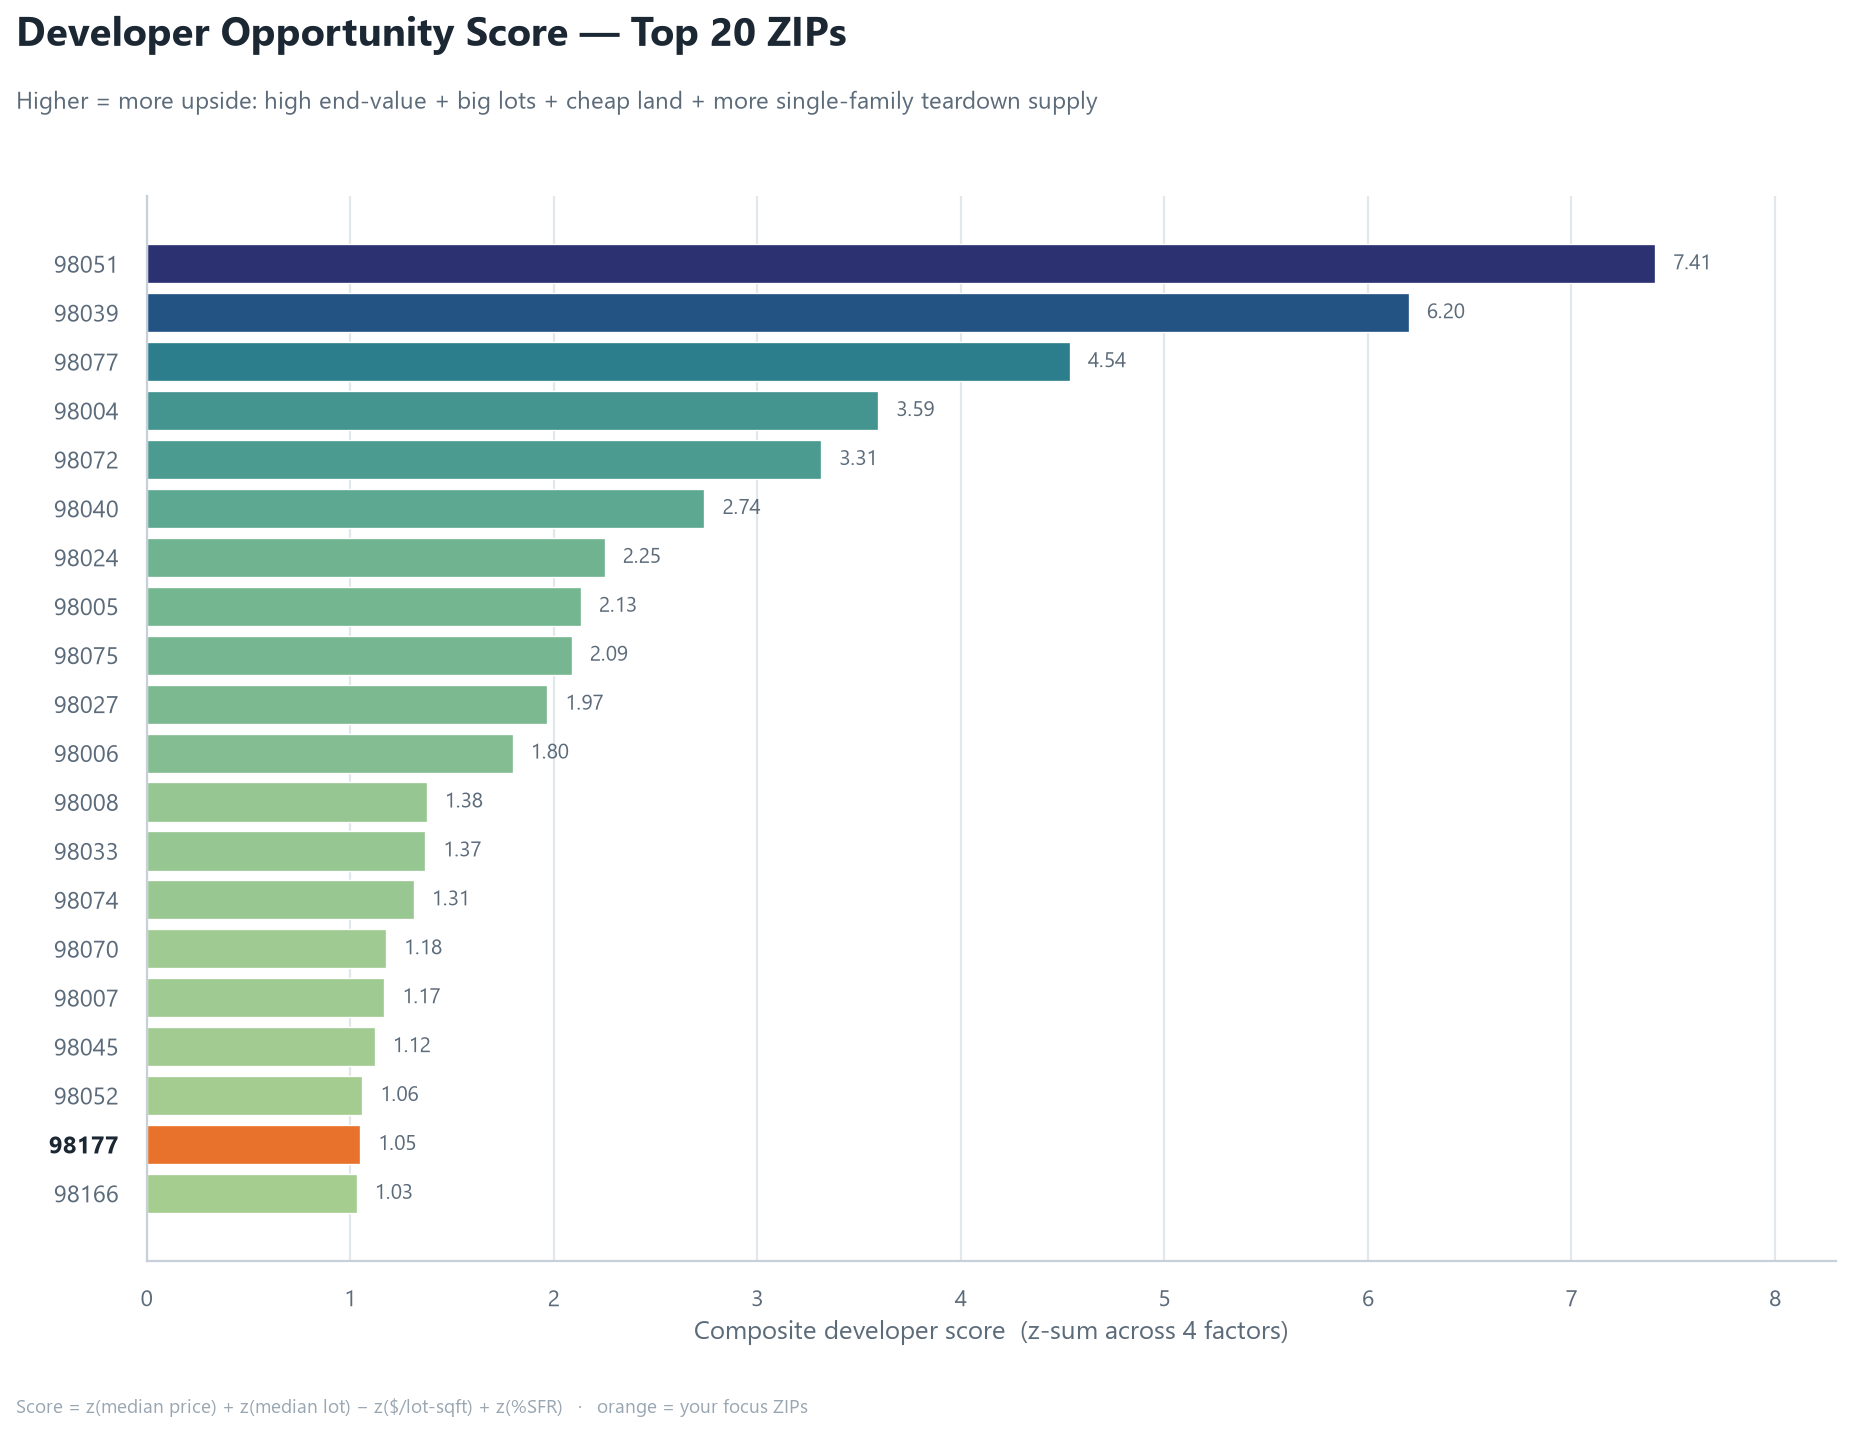
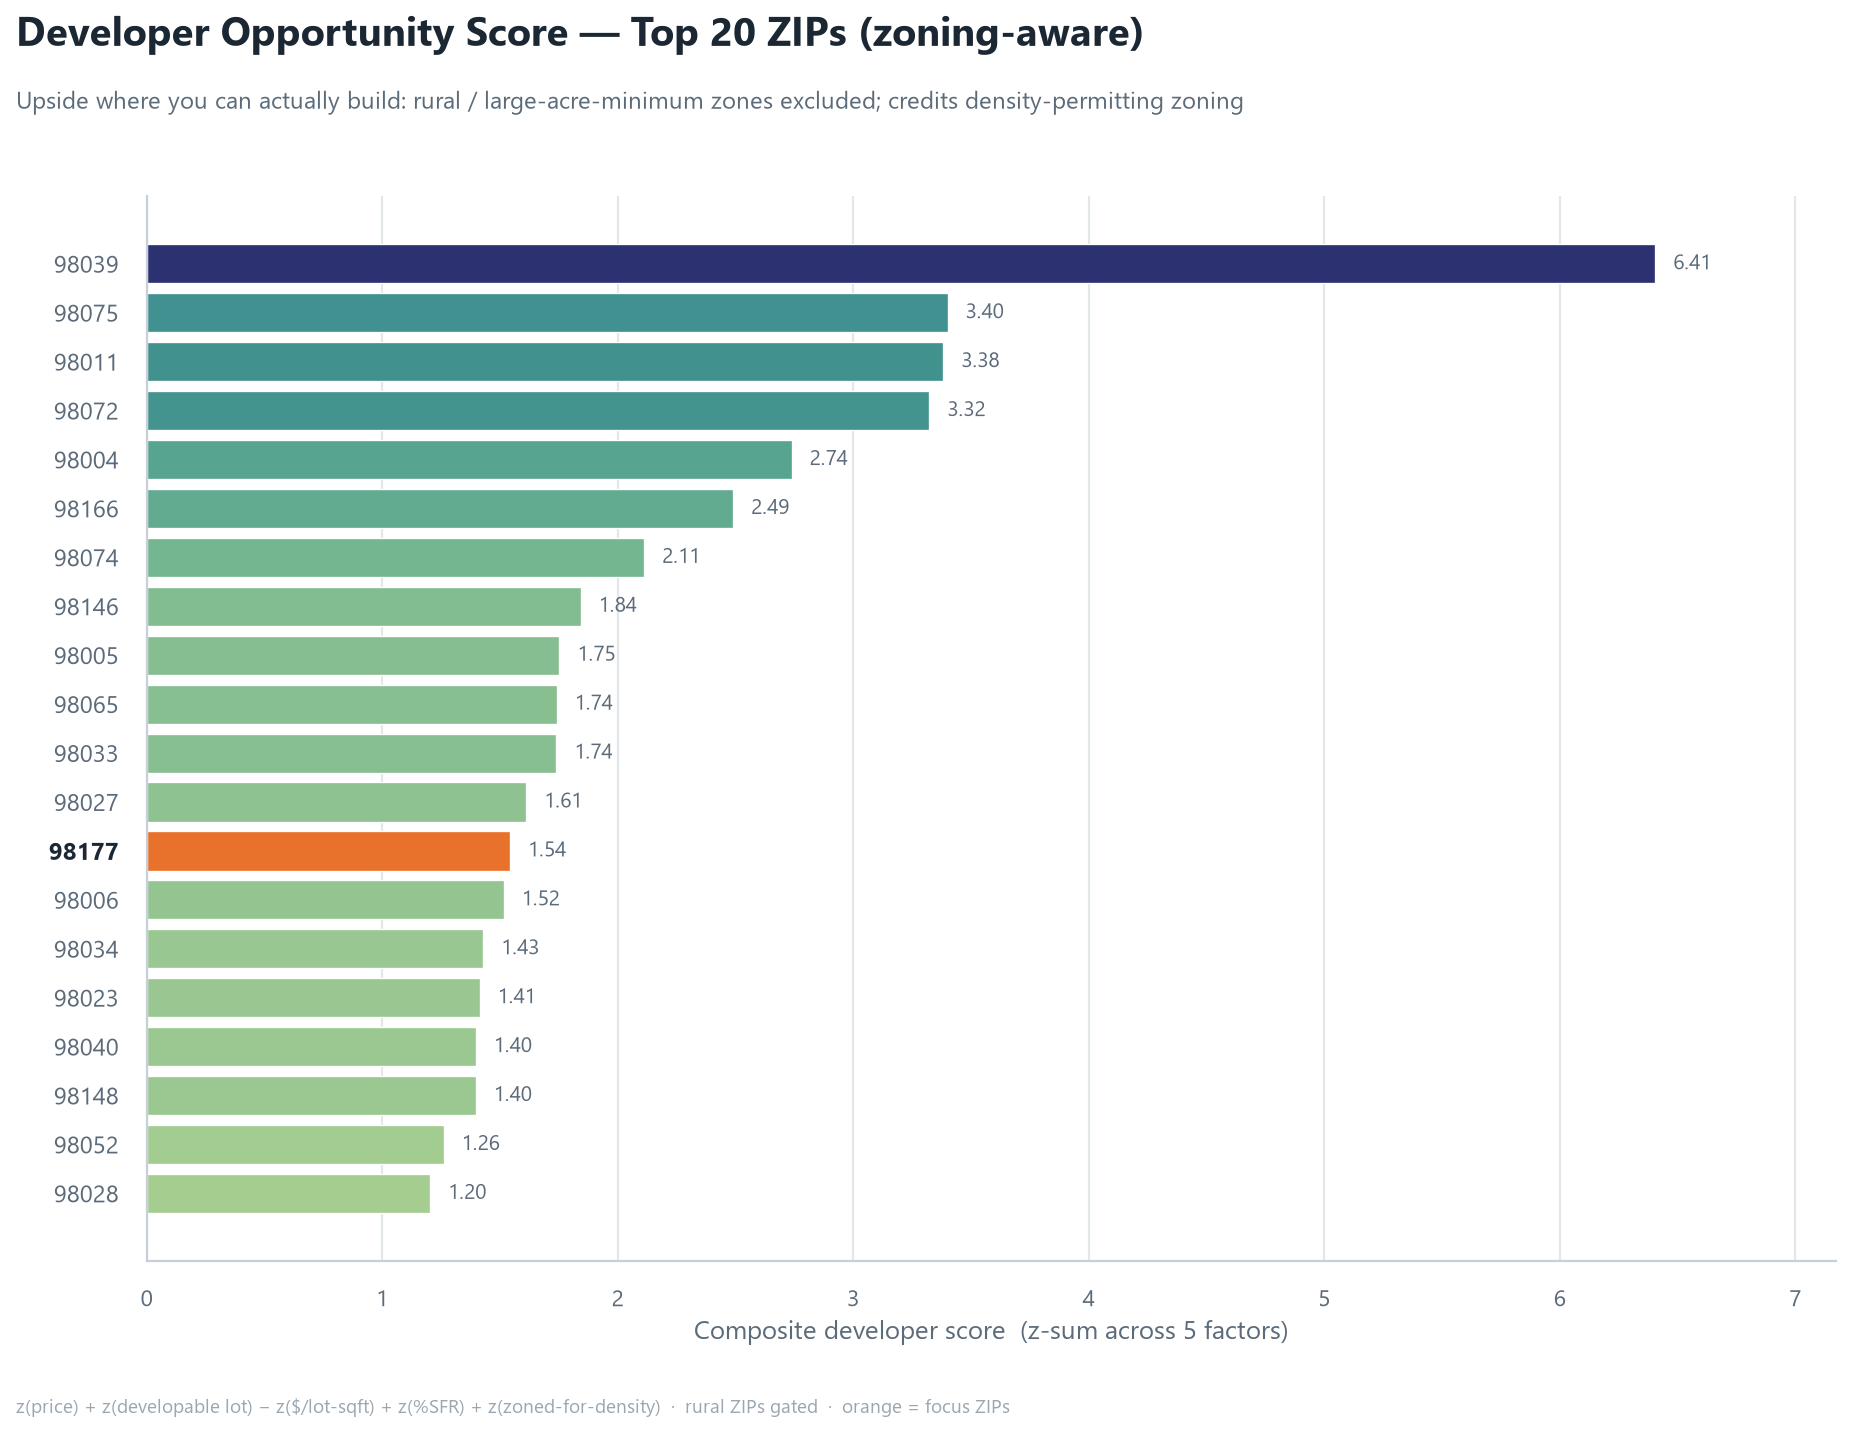
Make Developer Opportunity Score zoning-aware
Previously the score rewarded big lots with no regard for whether the land
can be developed — so it ranked rural RA-5/RA-2.5 (5- and 2.5-acre minimum
lot) ZIPs and Medina luxury SFR at the top, i.e. land you cannot densify.

- build_joined_from_extracts.py: carry CurrentZoning + DistrictName
  (jurisdiction) from the bulk Parcel extract into the joined cache.
- dev_score_and_shoreline.py: add classify_zoning() crosswalk that maps
  each jurisdiction's zoning code to a developability tier/weight
  (rural / sfr_low / sfr_mid / multifamily), disambiguating R-codes by
  jurisdiction (e.g. Shoreline R-6 = units/acre vs Medina R16 = min lot
  ksqft). WA HB 1110 middle-housing credited for city single-family.
- Score now: gates rural parcels and majority-rural ZIPs, computes lot size
  on developable land only, and adds a 5th factor z(zoned-for-density).
  Falls back to the legacy 4-factor score if the cache lacks ZONING.
- Regenerate outputs; rural false-positives removed from the top ranking.

diff --git a/Median Zip code project/scripts/dev_score_and_shoreline.py b/Median Zip code project/scripts/dev_score_and_shoreline.py
@@ -1,10 +1,14 @@
 """
 Two analyses on top of the live King County GIS market data:
 
-    A. Developer Opportunity Score by ZIP — composite z-score combining
-       end-value (median sale price), land cost (median $/lot-sqft, inverted),
-       lot size (median LOTSQFT), and teardown supply (% single-family
-       residences from PREUSE_DESC). Higher = better dev play.
+    A. Developer Opportunity Score by ZIP — zoning-aware composite z-score
+       combining end-value (median sale price), developable lot size (median
+       LOTSQFT after rural parcels are gated out), land cost (median $/lot-sqft,
+       inverted), teardown supply (% single-family from PREUSE_DESC), and zoning
+       developability (share of land in zones that permit added density, with
+       WA HB 1110 middle-housing credited for city single-family). Rural /
+       large-acre-minimum ZIPs are excluded — you cannot run a density play
+       there. Higher = better dev play. See classify_zoning() for the crosswalk.
 
     B. Shoreline / north-Seattle deep dive — filtered to the ZIPs the user
        transacts in (98155, 98133, 98177, 98125, 98103, 98115, 98117) with
@@ -29,6 +33,7 @@ Outputs (PNG/CSV):
 from __future__ import annotations
 
 import math
+import re
 import sys
 import time
 import traceback
@@ -201,20 +206,142 @@ def is_single_family(pre: str | float) -> bool:
     return False
 
 
+# Points / Eastside luxury cities where an "R<n>" code means minimum LOT SIZE
+# (thousands of sqft), i.e. LOW density — not n-units-per-acre.
+LUX_LOWDENSITY = {
+    "MEDINA", "CLYDE HILL", "HUNTS POINT", "YARROW POINT",
+    "BEAUX ARTS VILLAGE", "MERCER ISLAND",
+}
+
+
+def classify_zoning(zoning: str, juris: str = "") -> tuple[str, float]:
+    """Map a King County jurisdiction zoning code to a developability tier and a
+    0–1 weight (share of redevelopment potential).
+
+    Tiers:
+      rural        0.0  — RA/AG/forest: large-acre minimums, cannot densify
+      sfr_low      ~0.2 — large-min-lot / luxury SFR, or unincorporated SFR
+                          (WA HB 1110 middle-housing does NOT apply in
+                          unincorporated King County)
+      sfr_mid      ~0.6 — city single-family: under HB 1110 (2025–26) most now
+                          allow 2–4 units (6 near frequent transit)
+      multifamily  1.0  — lowrise/midrise/highrise or high units-per-acre, plus
+                          commercial / mixed-use that permits housing
+    """
+    if not isinstance(zoning, str) or not zoning.strip():
+        return "unknown", 0.3
+    j = (juris or "").upper().strip()
+    city = j not in ("KING COUNTY", "")          # incorporated => HB 1110 applies
+    base = re.sub(r"\(.*?\)", "", zoning.upper()).replace(" ", "").strip()
+
+    # rural / agricultural / forest -> not densifiable
+    if re.match(r"^(RA|AG|A-?\d|F\b|UR)", base):
+        return "rural", 0.0
+
+    # explicit multifamily / midrise / highrise / mixed / commercial-with-housing
+    if base.startswith(("LR", "MR", "HR", "SM", "NC", "MU", "RM", "MF",
+                        "DMR", "DMC", "CB", "PSM")) or re.match(r"^C-?\d", base):
+        return "multifamily", 1.0
+
+    # "SR-n" suburban residential (Bellevue etc.) — n = units/acre
+    m_sr = re.match(r"^SR-?(\d+(?:\.\d+)?)$", base)
+    if m_sr:
+        n = float(m_sr.group(1))
+        if n >= 12:
+            return "multifamily", 1.0
+        return ("sfr_mid", 0.5) if (city and n >= 4) else ("sfr_low", 0.3)
+
+    # numeric "R-n" / "Rn" codes
+    m = re.match(r"^R-?(\d+(?:\.\d+)?)", base)
+    if m:
+        if j in LUX_LOWDENSITY:                  # number = min lot ksqft (low density)
+            return "sfr_low", 0.15
+        if "." in m.group(1):                    # decimal R = min-lot ksqft (low density)
+            return "sfr_low", 0.2
+        n = float(m.group(1))
+        if n >= 12:                              # >=12 units/acre = multifamily
+            return "multifamily", 1.0
+        return ("sfr_mid", 0.6) if city else ("sfr_low", 0.3)  # 1–11 u/ac SFR
+
+    # neighborhood-residential / residential-small-lot text codes
+    if base.startswith(("NR", "RSL", "RSA", "RSX", "RS", "SRL")):
+        return "sfr_mid", 0.6
+    if base.startswith(("SF", "LDR", "RL", "RD")):
+        return ("sfr_mid", 0.55) if city else ("sfr_low", 0.3)
+
+    return "sfr_low", 0.3
+
+
 def compute_dev_score(df: pd.DataFrame) -> pd.DataFrame:
-    """Composite z-score per ZIP for developer/teardown plays.
+    """Zoning-aware composite z-score per ZIP for developer/teardown plays.
 
     Components (each z-scored, higher = better for the dev thesis):
-      + median sale price       (end-value upside)
-      + median lot sqft         (developable land)
-      - median $/lot-sqft       (land cost; negate so cheaper land helps)
-      + pct single-family       (teardown supply)
+      + median sale price          (end-value upside)
+      + median developable lot     (land you can split — rural parcels excluded)
+      - median $/lot-sqft          (land cost; negate so cheaper land helps)
+      + pct single-family          (teardown supply)
+      + zoning developability      (share of land zoned for added density)
 
-    Equal-weight sum gives an interpretable 4-component composite.
+    Zoning gate: parcels in rural/ag zones are dropped before aggregation, and
+    any ZIP that is majority-rural is excluded entirely — you cannot run a
+    density play where the minimum lot size is measured in acres.
     """
+    if "ZONING" not in df.columns:
+        print("  [warn] cache has no ZONING column — run build_joined_from_extracts.py; "
+              "falling back to the legacy non-zoning score")
+        return _compute_dev_score_legacy(df)
+
     df = df.copy()
     df["is_sfr"] = df["PREUSE_DESC"].apply(is_single_family)
+    tiers = df.apply(lambda r: classify_zoning(r["ZONING"], r.get("JURIS", "")),
+                     axis=1)
+    df["z_tier"] = [t[0] for t in tiers]
+    df["z_weight"] = [t[1] for t in tiers]
+    df["is_rural"] = df["z_tier"] == "rural"
 
+    # ZIP-level rural share (computed on ALL sales, before gating) for exclusion
+    rural_share = df.groupby("zip5")["is_rural"].mean()
+
+    # Gate rural parcels, then aggregate on developable land only
+    dev = df[~df["is_rural"]].copy()
+    grouped = dev.groupby("zip5").agg(
+        median_price=("SalePrice", "median"),
+        median_lot_sqft=("LOTSQFT", "median"),
+        median_ppsf=("price_per_lot_sqft", "median"),
+        pct_sfr=("is_sfr", "mean"),
+        zone_dev=("z_weight", "mean"),
+        sales_count=("SalePrice", "size"),
+    ).reset_index()
+    grouped["rural_share"] = grouped["zip5"].map(rural_share).fillna(0.0)
+
+    # Filters: enough developable sales, and not a majority-rural ZIP
+    grouped = grouped[
+        (grouped["sales_count"] >= MIN_SALES_FOR_SCORE)
+        & (grouped["rural_share"] < 0.5)
+    ].copy()
+    grouped = grouped.dropna(subset=["median_ppsf"])
+
+    def z(s: pd.Series) -> pd.Series:
+        return (s - s.mean()) / s.std(ddof=0)
+
+    grouped["z_price"] = z(grouped["median_price"])
+    grouped["z_lot"] = z(grouped["median_lot_sqft"])
+    grouped["z_ppsf_inv"] = -z(grouped["median_ppsf"])   # cheaper land = better
+    grouped["z_sfr"] = z(grouped["pct_sfr"])
+    grouped["z_zone"] = z(grouped["zone_dev"])           # zoned for density = better
+
+    grouped["dev_score"] = (
+        grouped["z_price"] + grouped["z_lot"] + grouped["z_ppsf_inv"]
+        + grouped["z_sfr"] + grouped["z_zone"]
+    )
+    grouped = grouped.sort_values("dev_score", ascending=False).reset_index(drop=True)
+    return grouped
+
+
+def _compute_dev_score_legacy(df: pd.DataFrame) -> pd.DataFrame:
+    """Original 4-factor score (no zoning) — fallback when ZONING is absent."""
+    df = df.copy()
+    df["is_sfr"] = df["PREUSE_DESC"].apply(is_single_family)
     grouped = df.groupby("zip5").agg(
         median_price=("SalePrice", "median"),
         median_lot_sqft=("LOTSQFT", "median"),
@@ -222,8 +349,6 @@ def compute_dev_score(df: pd.DataFrame) -> pd.DataFrame:
         pct_sfr=("is_sfr", "mean"),
         sales_count=("SalePrice", "size"),
     ).reset_index()
-
-    # Require enough sales to make medians meaningful
     grouped = grouped[grouped["sales_count"] >= MIN_SALES_FOR_SCORE].copy()
     grouped = grouped.dropna(subset=["median_ppsf"])
 
@@ -232,14 +357,12 @@ def compute_dev_score(df: pd.DataFrame) -> pd.DataFrame:
 
     grouped["z_price"] = z(grouped["median_price"])
     grouped["z_lot"] = z(grouped["median_lot_sqft"])
-    grouped["z_ppsf_inv"] = -z(grouped["median_ppsf"])  # cheaper land = better
+    grouped["z_ppsf_inv"] = -z(grouped["median_ppsf"])
     grouped["z_sfr"] = z(grouped["pct_sfr"])
-
     grouped["dev_score"] = (
         grouped["z_price"] + grouped["z_lot"] + grouped["z_ppsf_inv"] + grouped["z_sfr"]
     )
-    grouped = grouped.sort_values("dev_score", ascending=False).reset_index(drop=True)
-    return grouped
+    return grouped.sort_values("dev_score", ascending=False).reset_index(drop=True)
 
 
 def render_dev_score(score_df: pd.DataFrame) -> None:
@@ -261,7 +384,7 @@ def render_dev_score(score_df: pd.DataFrame) -> None:
         ax.text(bar.get_width() + span * 0.012, bar.get_y() + bar.get_height() / 2,
                 f"{s:.2f}", va="center", ha="left", fontsize=9.5, color=cs.MUTED)
 
-    ax.set_xlabel("Composite developer score  (z-sum across 4 factors)")
+    ax.set_xlabel("Composite developer score  (z-sum across 5 factors)")
     ax.set_ylabel("")
     ax.set_xlim(0, max(scores) * 1.12)
     cs.grid_x_only(ax)
@@ -274,12 +397,12 @@ def render_dev_score(score_df: pd.DataFrame) -> None:
 
     cs.title_block(
         fig,
-        "Developer Opportunity Score — Top 20 ZIPs",
-        "Higher = more upside: high end-value + big lots + cheap land + more "
-        "single-family teardown supply",
+        "Developer Opportunity Score — Top 20 ZIPs (zoning-aware)",
+        "Upside where you can actually build: rural / large-acre-minimum zones "
+        "excluded; credits density-permitting zoning",
     )
-    cs.footer(fig, "Score = z(median price) + z(median lot) − z($/lot-sqft) + "
-                   "z(%SFR)   ·   orange = your focus ZIPs")
+    cs.footer(fig, "z(price) + z(developable lot) − z($/lot-sqft) + z(%SFR) + "
+                   "z(zoned-for-density)  ·  rural ZIPs gated  ·  orange = focus ZIPs")
     fig.subplots_adjust(top=0.86, left=0.08, right=0.96, bottom=0.12)
     out = OUTPUTS_DIR / "05_dev_score_top20.png"
     fig.savefig(out)
@@ -555,10 +678,11 @@ def main() -> int:
         score.to_csv(score_path, index=False)
         print(f"  Wrote {score_path.name} ({len(score)} ZIPs ranked)")
         print("\n  Top 15 ZIPs by dev score:")
-        print(score.head(15)[
-            ["zip5", "dev_score", "median_price", "median_ppsf",
-             "median_lot_sqft", "pct_sfr", "sales_count"]
-        ].to_string(index=False))
+        cols = ["zip5", "dev_score", "median_price", "median_ppsf",
+                "median_lot_sqft", "pct_sfr", "sales_count"]
+        if "zone_dev" in score.columns:
+            cols.insert(6, "zone_dev")
+        print(score.head(15)[cols].to_string(index=False))
         render_dev_score(score)
     except Exception as exc:
         print(f"  FAILED: {exc}")

diff --git a/Median Zip code project/scripts/build_joined_from_extracts.py b/Median Zip code project/scripts/build_joined_from_extracts.py
@@ -98,17 +98,25 @@ def pin(major: str, minor: str) -> str:
     return f"{major.strip().zfill(6)}{minor.strip().zfill(4)}"
 
 
-def load_residential_pins() -> set[str]:
-    """Set of PINs whose parcel PropType == 'R' (residential land universe)."""
-    pins: set[str] = set()
+def load_residential_pins() -> dict[str, tuple[str, str]]:
+    """PIN -> (CurrentZoning, DistrictName/jurisdiction) for PropType=='R' parcels.
+
+    Zoning + jurisdiction come from the bulk Parcel extract (the live GIS query
+    does not expose zoning). Jurisdiction is needed to disambiguate R-codes that
+    mean different things by city (e.g. Shoreline R-6 = 6 units/acre vs Medina
+    R16 = 16,000 sqft minimum lot)."""
+    out: dict[str, tuple[str, str]] = {}
     total = 0
     with PARCEL_CSV.open(encoding=ENC, newline="") as f:
         for row in csv.DictReader(f):
             total += 1
             if row["PropType"].strip() == "R":
-                pins.add(pin(row["Major"], row["Minor"]))
-    print(f"[parcel] {len(pins):,} residential PINs (of {total:,} total)")
-    return pins
+                out[pin(row["Major"], row["Minor"])] = (
+                    row["CurrentZoning"].strip(),
+                    row["DistrictName"].strip(),
+                )
+    print(f"[parcel] {len(out):,} residential PINs (of {total:,} total)")
+    return out
 
 
 def load_assessed_values() -> dict[str, float]:
@@ -180,7 +188,8 @@ def build() -> int:
                 drop_reason += 1
                 continue
             p = pin(row["Major"], row["Minor"])
-            if p not in resid_pins:
+            zoning_juris = resid_pins.get(p)
+            if zoning_juris is None:
                 drop_resid += 1
                 continue
             total_av = assessed.get(p, 0.0)
@@ -198,6 +207,8 @@ def build() -> int:
                 "SalePrice": price,
                 "Principal_Use": "RESIDENTIAL",
                 "Property_Type": row.get("PropertyType", "").strip(),
+                "ZONING": zoning_juris[0],
+                "JURIS": zoning_juris[1],
             })
             kept += 1
     print(f"[sales] scanned {seen:,} rows -> {kept:,} residential arms-length sales")
@@ -240,7 +251,8 @@ def build() -> int:
 
     cols = ["PIN", "SaleDate", "SalePrice", "Principal_Use", "Property_Type",
             "address", "ZIP5", "LOTSQFT", "PREUSE_DESC", "PROPTYPE",
-            "CTYNAME", "POSTALCTYNAME", "ADDR_FULL", "zip5", "price_per_lot_sqft"]
+            "CTYNAME", "POSTALCTYNAME", "ADDR_FULL", "ZONING", "JURIS",
+            "zip5", "price_per_lot_sqft"]
     df = df[cols]
     df.to_csv(OUT, index=False)
     print(f"[out] wrote {len(df):,} rows -> {OUT}")
